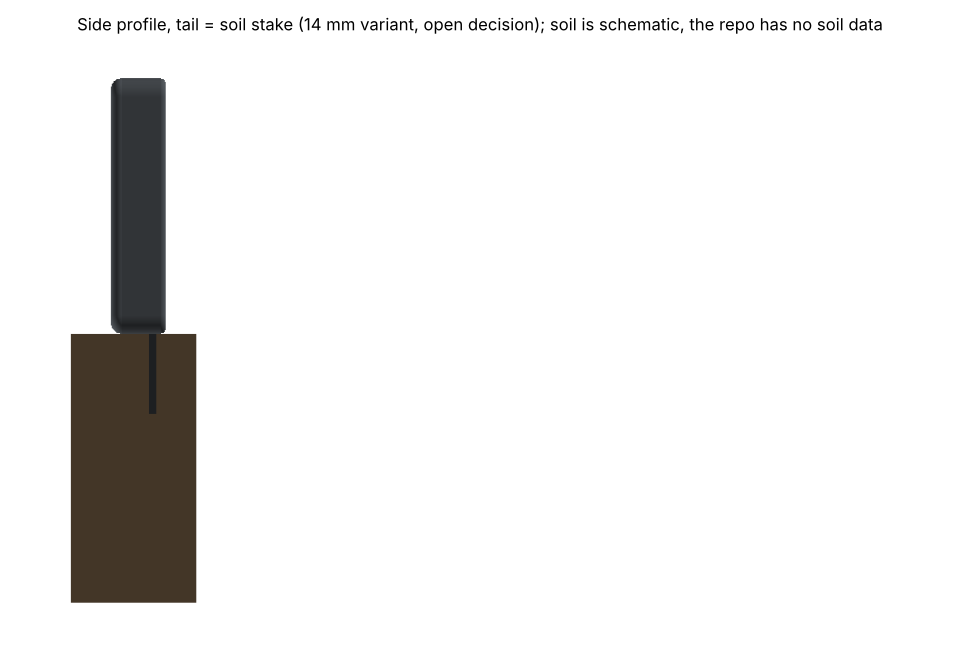
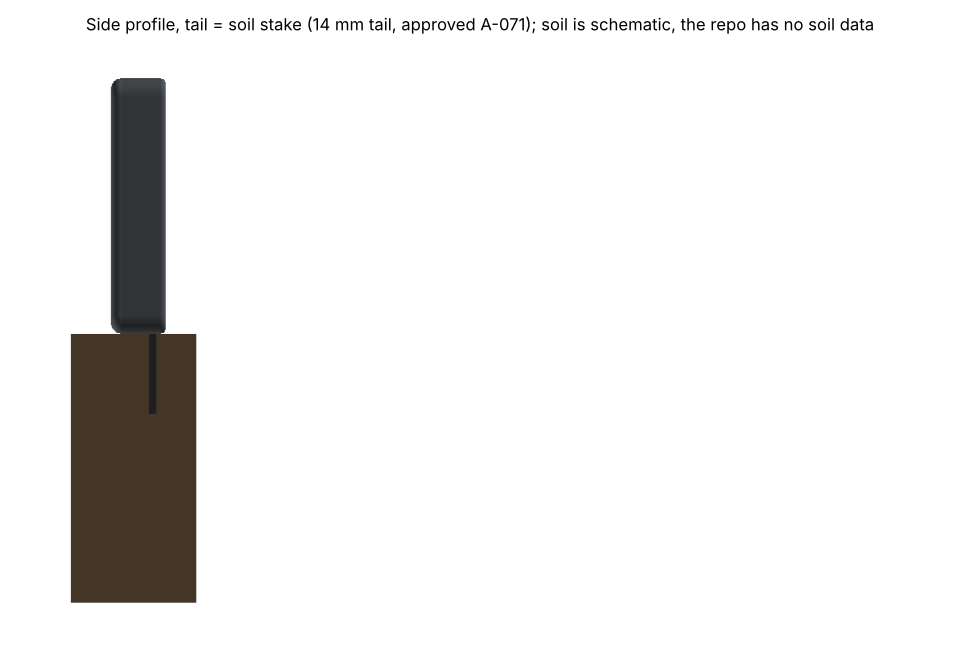
[4.E3] Slice 5: J1 flat per A-087 (height ASSUMED, never PASS), sync A-071 / A-076 / A-084 status text
- params_v3: J1 height is one value (3.3, ASSUMED) and drives J1_Z; upright 11.94 marked REJECTED (record only); cavity basis comment: J2 sets 8.6, J1 flat is not limiting.
- fit_check_v3: J1 row now flat / edge-mount, OPEN until a datasheet height of the picked part exists; upright no longer tested; A-071 (14 mm approved) and A-084 (RF risk accepted, 1.6 mm shell) wording.
- locked_interface / LOCKED_INTERFACE.md regenerated; enclosure/v3 README, compact fit-check reports and the stake render caption synced.
- Geometry unchanged (same STL). CI not run (waived, A-090); local pytest 56 passed, fit check 40 PASS / 0 FAIL / 19 OPEN.

Claude-Session: https://claude.ai/code/session_01W3bSq9UETfWrgGMgbmcMNG

Changed region(s): [[0.0625, 0.0306, 0.9375, 0.0613]]

diff --git a/projects/plant-monitor/mechanical/enclosure_v3/params_v3.py b/projects/plant-monitor/mechanical/enclosure_v3/params_v3.py
@@ -41,7 +41,8 @@ LID_CLEAR = 0.5                    # [ASSUMED] min air gap tallest part to lid u
 H_BY_REF = {"U1": 2.4, "J1": 3.3, "J2": 5.5, "SW1": 1.5, "SW2": 1.5, "SW3": 1.5, "U3": 1.75, "U5": 1.0, "U6": 0.75,
             "D1": 1.1, "U2": 1.1, "U4": 1.1, "Q1": 1.1, "U7": 1.1, "D2": 0.8, "D3": 0.8, "E1": 0.04}
 H_DEFAULT = 0.55                   # [ASSUMED] 0603 R/C
-# J1_UPRIGHT is not a model height (the model uses the flat 3.3 for J1); it is recorded so the upright value is not lost (see fit row 55).
+# J1 (USB-C) is FLAT / edge-mount (A-087, Arsany 2026-11-13). Its model height 3.3 is ASSUMED until the datasheet height of the part Emil picks is read.
+# J1_UPRIGHT (11.94) is the rejected upright version: kept as a record only, not used by the model or any check.
 # Where each height comes from (slice 3). DATASHEET = read from the manufacturer PDF (page given). SECONDARY = distributor listing
 # values only (manufacturer PDF not readable in this session), used as a cross-check, never as the model value unless it equals it.
 # ASSUMED = no source read; kept as an assumption and listed in the PR.
@@ -53,21 +54,22 @@ H_SRC = {
     "SW2": ("SECONDARY", "same part as SW1 (LCSC C318884)"),
     "SW3": ("SECONDARY", "same part as SW1 (LCSC C318884)"),
     "J2":  ("SECONDARY", "sourced: LCSC C295747 Z-height listing 5.5 mm (A-076 budget); IBS Electronics lists 5.5 mm; element14 lists 8.0 mm for a likely B2B variant (not confirmed as this part); JST drawing to confirm"),
-    "J1":  ("ASSUMED", "TYPE-C-31-M-12 (LCSC C165948) flat part, model value 3.30: no datasheet height for the flat part read (LCSC link returns a wrapper page); kept ASSUMED. A-087 approved flat / edge-mount (Arsany 2026-11-13); the part is still to be picked by Emil"),
-    # The upright male version of the same connector is a different height. Brief value from the TYPE-C-31-M-12 datasheet (upright male): 11.94 +-0.25 mm.
-    # Recorded as OPEN, not used in the model: the orientation is decision A-087 (Arsany). No value is chosen. The datasheet PDF was not read in this session.
-    "J1_UPRIGHT": ("OPEN", "TYPE-C-31-M-12 (LCSC C165948) datasheet, upright male version: H 11.94 +-0.25 mm (value from the review brief; PDF not read here). Orientation A-087 (Arsany)"),
+    "J1":  ("ASSUMED", "USB-C, FLAT / edge-mount (A-087, Arsany 2026-11-13). Model value 3.30 is ASSUMED: no datasheet height for a flat part has been read. Emil picks the actual flat part (PR #95 does not contain it yet); until its datasheet height exists this stays ASSUMED, never PASS. Footprint in the repo is still TYPE-C-31-M-12 (LCSC C165948)"),
+    # The upright male version of TYPE-C-31-M-12 is a different height: 11.94 +-0.25 mm (value from the review brief, PDF not read here). Rejected by A-087; record only.
+    "J1_UPRIGHT": ("REJECTED", "TYPE-C-31-M-12 upright male version H 11.94 +-0.25 mm (review brief value, PDF not read). Not used: A-087 approved flat / edge-mount (Arsany 2026-11-13)"),
     "U3":  ("ASSUMED", "TP4056-42-ESOP8 (LCSC C16581): datasheet link returns a wrapper page; height not read"),
 }
 for _r in ("D1", "U2", "U4", "U7", "Q1", "D2", "D3", "E1"):
     H_SRC.setdefault(_r, ("ASSUMED", "not read in this session (package class value kept)"))
-J1_UPRIGHT_H, J1_UPRIGHT_TOL = 11.94, 0.25   # TYPE-C-31-M-12 upright male, datasheet brief value (OPEN, A-087); not used by the model
+J1_UPRIGHT_H, J1_UPRIGHT_TOL = 11.94, 0.25   # TYPE-C-31-M-12 upright male, brief value; REJECTED by A-087 (flat approved), record only, not used by the model
 # The number each cited source states, for every part whose height cites a source (DATASHEET or SECONDARY). The fit check (row 54)
 # fails if H_BY_REF differs from it, so a changed sourced height cannot slip through without a new citation.
 H_CITED = {"U1": 2.4, "U5": 1.0, "U6": 0.75, "SW1": 1.5, "SW2": 1.5, "SW3": 1.5, "J2": 5.5}
 # Inner height is a FIXED design value, not derived from H_BY_REF. The fit check row "Tallest part to lid underside" tests the
 # assumed heights against it, so changing an assumed height (e.g. J2) fails the check instead of silently moving the box.
-# Budget at 7.6: standoff 1.0 + board 1.6 + J2 4.5 + air 0.5 = 7.6.
+# Cavity basis (A-087 + A-076): the tallest part sets INNER_H, and it is J2, not J1. J1 is flat (3.3 ASSUMED) and leaves 2.7 mm of air at 8.6.
+# The rejected upright J1 (11.94) would need 1.0 + 1.6 + 11.94 + 0.5 = 15.04, which is why flat was chosen.
+# Budget at 7.6: standoff 1.0 + board 1.6 + J2 4.5 + air 0.5 = 7.6 (J2 4.5 was ASSUMED, superseded by the 5.5 listing value).
 INNER_H_OPT_A = round(STANDOFF + BOARD_T + 4.5 + LID_CLEAR, 1)      # 7.6: option A, J2 4.5 (ASSUMED, not sourced)
 INNER_H_IF_J2_5_5 = round(STANDOFF + BOARD_T + 5.5 + LID_CLEAR, 1)   # 8.6: option B, J2 5.5 (distributor value)
 # A-076 (answered 2026-11-13 from the J2 listing 5.5 mm): the model uses option B, inner 8.6. Option A (7.6) stays in INNER_H_OPT_A for reference only.
@@ -96,7 +98,7 @@ BOSS_XY += [(-55.0, -45.4), (-27.0, -45.4), (-3.5, -45.4)]   # absolute: boss to
 BOSS_BOARD_GAP_MIN = 1.0           # [ASSUMED] min plan gap boss edge to board outline (insertion slop + FDM spread); not a sourced limit
 INSERT_DEPTH = 4.0
 # ---- USB-C [ASSUMED plug 8.94 x 3.26 (USB-C spec) + 0.3 per side FDM] ----
-J1_Y, J1_Z = _F["at"]["J1"][1], BOARD_Z1 + 3.3 / 2
+J1_Y, J1_Z = _F["at"]["J1"][1], BOARD_Z1 + H_BY_REF["J1"] / 2   # J1 flat, centre at half the (ASSUMED) height
 USB_W, USB_H = 9.6, 3.9
 USB_POCKET = (14.0, 8.0, 1.2)      # overmold pocket w x h x depth from outside; wall left 1.2
 # ---- light window over U6 BH1750 at KiCad (11.5, 4.5) ----
@@ -123,7 +125,7 @@ PETG_BOSS_WALL = 1.6               # wall around a heat-set insert hole in PETG 
 PETG_SCREW_TORQUE_NM = 0.25        # [ASSUMED] max M2 tightening torque into a PETG insert; the insert datasheet governs
 PETG_SHRINK = 0.004                # [ASSUMED] 0.4 % PETG shrink; set by the test print (standards s.3 says calibrate)
 SEAL_TYPE = "silicone sheet gasket 1.0 mm (bought part, not PETG; ASSUMED)"
-# ---- tail length variants (A-071, Arsany's call, NOT decided here) ----
+# ---- tail length variants (A-071: Arsany approved 14 mm on 2026-11-12 (sheet: Done); the 20 mm variant stays as reference) ----
 # "Tail length" = length of the soil electrode copper beyond the OUTER bottom face of the enclosure (mm). Read from the board:
 # the electrode copper runs from BODY_L+1 to BODY_L+21 (pad at y 11 of the E1 footprint, size 20), the board tail ends 4.0 mm
 # further (board_facts.electrode_span). The enclosure does not move; only the board tail length changes with the variant.

diff --git a/projects/plant-monitor/mechanical/enclosure_v3/fit_check_v3.py b/projects/plant-monitor/mechanical/enclosure_v3/fit_check_v3.py
@@ -65,7 +65,7 @@ def main(tail=None):
     tail_l = P.TAIL_L_VARIANT[tail]                       # board tail length for this variant (params_v3)
     tray, lid, plug = E.tray(), E.lid(), E.plug()
     board, cell = E.board_ghost(tail_l), E.cell_ghost()
-    # 0 tail variant (A-071 open): the electrode length beyond the outer bottom face, derived from the variant board tail
+    # 0 tail variant (A-071: 14 mm approved 2026-11-12, board change pending in input/): the electrode length beyond the outer bottom face, derived from the variant board tail
     tail_end = -(P.BODY_L + tail_l)
     cu_end = tail_end + P.TIP_MARGIN
     exposed = -cu_end - (-P.OUT_Y0)
@@ -74,7 +74,7 @@ def main(tail=None):
     dxf_tail = P.TAIL_L
     row("Board tail in DXF (input/) matches the variant", f"DXF {dxf_tail:.2f} mm vs variant {tail_l:.2f} mm (+{tail_l - dxf_tail:.2f})", "= variant tail",
         abs(tail_l - dxf_tail) < 1e-6, "board DXF = #73; a longer tail for the 20 mm variant is a board outline change for Emil (not in repo)",
-        "OPEN: board outline change needed for this variant, Arsany A-071 decides", open_=abs(tail_l - dxf_tail) >= 1e-6)
+        "OPEN: A-071 approved 14 mm (Arsany 2026-11-12) = board tail 25.8; the board copy in input/ is still the 25.0 mm DXF of #73 (pcb/gen_pcb.py on main already has 25.8). 20 mm is reference only", open_=abs(tail_l - dxf_tail) >= 1e-6)
     # tail solid vs housing: the tail runs through the tunnel in the plug; must not hit tray or plug
     tail_solid = E._box(P.TAIL_X0, tail_end, P.BOARD_Z0, P.TAIL_X0 + P.TAIL_W, -P.BODY_L, P.BOARD_Z1)
     row(f"Interference tail ({tail} variant) vs tray and seal plug", f"{max(vol_overlap(tail_solid, tray), vol_overlap(tail_solid, plug)):.3f} mm3", "0 (contact allowed)",
@@ -129,10 +129,10 @@ def main(tail=None):
     row("Antenna corner (33.5, 4.5) air to the rounded cavity corner", f"{air_c:.2f} mm", ">= 1.0 (same air as the top wall)", air_c >= 1.0 - 1e-9, "params_v3 rr_dist, FILLET_INNER 1.5 (slice 4)")
     dm = min(B.gap(ant, (x - P.INSERT_HOLE / 2, y - P.INSERT_HOLE / 2, x + P.INSERT_HOLE / 2, y + P.INSERT_HOLE / 2)) for x, y in P.BOSS_XY)
     row("Nearest brass insert to antenna (Q9)", f"{dm:.1f} mm", ">= 15", dm >= 15, "BOSS_XY, insert hole 3.2")
-    # standards s.7: no thick walls over the antenna. The 2.4 mm PETG top wall sits over the module; no RF measurement exists, so this is OPEN, not PASS.
+    # standards s.7: no thick walls over the antenna. The compact shell has a 1.6 mm PETG top wall (WALL_LOW) over the module; A-084: RF risk accepted for the demo. No RF measurement exists, so this stays OPEN, not PASS.
     row("PETG top wall over the antenna", f"{P.WALL_LOW:.2f} mm wall, {P.INNER_Y1 - P.OVERHANG:.1f} mm air to antenna tip (ASSUMED)", "no thick wall over the antenna (standards s.7): RF effect checked",
         False, "params_v3 WALL, INNER_Y1; standards s.7; P1S/PETG review (Arsany answer 2026-11-10)",
-        "OPEN: effect on the antenna not measured. Options: RF check on a Prototype 1 print, or a thinner wall over the antenna. Decide before the lid is locked", open_=True)
+        "OPEN: RF effect not measured. A-084: risk accepted for the demo with the 1.6 mm compact shell; RF check on a Prototype 1 print before any pilot batch", open_=True)
     # 6 walls
     cw = P.min_wall_corners()
     for n, v in [("Rim land left/top/bottom", P.WALL_LOW), ("Rim land right (USB side)", P.WALL), ("Tray floor", P.FLOOR), ("Corner wall, min (cavity to skin)", cw), ("Lid under counterbore", P.LID_T - P.WIN_CB_DEPTH), ("USB pocket remaining wall", P.WALL - P.USB_POCKET[2]),
@@ -190,14 +190,13 @@ def main(tail=None):
     row(f"Model heights equal their cited source ({len(P.H_CITED)} parts)", f"{len(P.H_CITED) - len(mism)} of {len(P.H_CITED)} equal" + (f"; MISMATCH {mism}" if mism else ""),
         "model value = cited value for every part", not mism, "params_v3 H_CITED vs H_BY_REF; standards s.7 (never invent a component dimension)",
         "OPEN: U5, U6, SW1-3 cite distributor listings (SECONDARY), the PDFs were not read", unsure=any(P.H_SRC[k][0] != "DATASHEET" for k in P.H_CITED))
-    # 10 J1 USB-C height: the model uses the flat 3.3 (ASSUMED); the upright male version is 11.94 +-0.25 (datasheet brief value, OPEN, A-087).
-    # The upright value is tested against the same inner box; it does not fit, so the row stays OPEN until the orientation is decided. No value is chosen here.
+    # 10 J1 USB-C height: FLAT / edge-mount (A-087, Arsany 2026-11-13). Model value 3.3 is ASSUMED (no datasheet height of the picked flat part yet),
+    # so the row is OPEN even though the gap passes. The rejected upright 11.94 is not tested any more (record only in params_v3).
     gap_flat = P.INNER_H - (P.BOARD_Z1 + P.H_BY_REF["J1"])
-    gap_up = P.INNER_H - (P.BOARD_Z1 + P.J1_UPRIGHT_H)
-    row("J1 USB-C height, flat vs upright", f"flat {P.H_BY_REF['J1']:.2f} (ASSUMED): {gap_flat:.2f} mm to lid; upright {P.J1_UPRIGHT_H:.2f} +-{P.J1_UPRIGHT_TOL} (OPEN): {gap_up:.2f} mm",
-        f">= {P.LID_CLEAR} (orientation not decided)", gap_up >= P.LID_CLEAR - 1e-9,
-        "TYPE-C-31-M-12 datasheet, upright male (brief value, PDF not read here); params_v3 H_SRC J1_UPRIGHT",
-        "OPEN: A-087 approved flat (2026-11-13); the upright value is kept only as a record and does not fit the 8.6 mm or 7.6 mm inner box", open_=True)
+    row("J1 USB-C height (flat / edge-mount, A-087)", f"flat {P.H_BY_REF['J1']:.2f} (ASSUMED): {gap_flat:.2f} mm to lid underside (inner {P.INNER_H:.1f})",
+        f">= {P.LID_CLEAR} mm to lid; height from the datasheet of the picked part", gap_flat >= P.LID_CLEAR - 1e-9,
+        "params_v3 H_BY_REF['J1'], H_SRC J1; A-087 (flat approved 2026-11-13)",
+        "OPEN: height ASSUMED until Emil's flat part has a datasheet height (PR #95 does not pick it yet); never PASS before that", unsure=P.H_SRC["J1"][0] != "DATASHEET")
     return list(ROWS)
 
 
@@ -219,5 +218,5 @@ if __name__ == "__main__":
     summary = f"{npass} PASS, {nfail} FAIL, {nopen} OPEN (tail {tail} mm variant)"
     print(summary)
     if "--md" in sys.argv:
-        open(sys.argv[sys.argv.index("--md") + 1], "w").write(f"Tail variant: {tail} mm (A-071 open)\n\n" + md + f"\n{summary}\n")
+        open(sys.argv[sys.argv.index("--md") + 1], "w").write(f"Tail variant: {tail} mm (A-071: 14 mm approved by Arsany 2026-11-12)\n\n" + md + f"\n{summary}\n")
     sys.exit(1 if nfail else 0)

diff --git a/projects/plant-monitor/mechanical/enclosure_v3/locked_interface.py b/projects/plant-monitor/mechanical/enclosure_v3/locked_interface.py
@@ -27,7 +27,7 @@ def text():
     a(f"| Body | {f['board_w']:.1f} x {f['body_l']:.1f} | READ | DXF OUTLINE |")
     a(f"| Tail (25 mm DXF) | {f['tail_w']:.1f} x {f['tail_l']:.1f} | READ | DXF OUTLINE; tip at y {f['tail_end']:.1f} |")
     a(f"| Thickness | {P.BOARD_T:.1f} | READ | KiCad general thickness (tolerance +-10 % per layout-brief) |")
-    a(f"| Tail length variants | 14 mm: board tail {P.TAIL_L_VARIANT['14']:.1f}; 20 mm: board tail {P.TAIL_L_VARIANT['20']:.1f} | OPEN | electrode copper beyond the outer bottom face, A-071 (Arsany). Board change needed for both (DXF tail 25.0) |")
+    a(f"| Tail length variants | 14 mm: board tail {P.TAIL_L_VARIANT['14']:.1f}; 20 mm: board tail {P.TAIL_L_VARIANT['20']:.1f} | 14 mm APPROVED (A-071, Arsany 2026-11-12); 20 mm reference only | electrode copper beyond the outer bottom face. Board change to 25.8 is in `pcb/gen_pcb.py` on main; the DXF copy in `input/` is still 25.0 |")
     a(f"| Electrode copper | 20 mm, y {-f['body_l'] - 1:.0f} to {f['copper_end']:.0f} | READ | E1 pad 1 (SOIL_PROBE), tip margin {P.TIP_MARGIN:.1f} to the tail end |")
     a(f"| Antenna module overhang | {f['overhang']:.1f} above the top edge, x {f['module_x0']:.1f}..{f['module_x1']:.1f} | READ | DXF MODULE_U1; enclosure keeps 1.0 air (ASSUMED) |")
     a("")
@@ -43,8 +43,8 @@ def text():
     a("| Item | Value | Status | Note |")
     a("|---|---|---|---|")
     a(f"| J1 centre (x = right edge, y) | x {P.BOARD_W:.2f}, y {P.J1_Y:.1f}, rotated 90 deg | READ | J1 footprint position |")
-    a(f"| J1 height, flat (model value, board top to centre) | {P.H_BY_REF['J1']:.2f} (centre at z {P.J1_Z:.2f}) | {sec('J1')} | no datasheet height read for the flat part; see fit check |")
-    a(f"| **J1 height, upright male (TYPE-C-31-M-12 datasheet)** | **{P.J1_UPRIGHT_H:.2f} +-{P.J1_UPRIGHT_TOL:.2f}** | **{sec('J1_UPRIGHT')}** | orientation is decision **A-087** (Arsany); no value chosen. Upright does not fit the 7.6 mm inner box (fit row 55) |")
+    a(f"| J1 height, flat (model value, board top to centre) | {P.H_BY_REF['J1']:.2f} (centre at z {P.J1_Z:.2f}) | {sec('J1')} | flat / edge-mount approved (A-087, Arsany 2026-11-13); no datasheet height of the picked flat part yet, never PASS until then; fit check row 'J1 USB-C height' |")
+    a(f"| J1 height, upright male (TYPE-C-31-M-12, brief value) | {P.J1_UPRIGHT_H:.2f} +-{P.J1_UPRIGHT_TOL:.2f} | {sec('J1_UPRIGHT')} | not used: A-087 chose flat / edge-mount; upright would need an inner height of about 15.0 |")
     a(f"| Window in right wall | {P.USB_W} x {P.USB_H} | ASSUMED | plug 8.94 x 3.26 + 0.3 per side |")
     a(f"| Overmold pocket (from outside) | {P.USB_POCKET[0]} x {P.USB_POCKET[1]} x {P.USB_POCKET[2]} deep | ASSUMED | wall left {P.WALL - P.USB_POCKET[2]:.1f} |")
     a("")
@@ -80,16 +80,16 @@ def text():
     a("|---|---|---|---|")
     XY = f"{P.INNER_X1 - P.INNER_X0:.1f} x {P.INNER_Y1 - P.INNER_Y0:.1f}"
     OXY = f"{P.OUT_X1 - P.OUT_X0:.1f} x {P.OUT_Y1 - P.OUT_Y0:.1f}"
-    a(f"| Inner cavity, **option A: J2 4.5 ASSUMED (not the model since slice 4)** | {XY} x {P.INNER_H_OPT_A:.1f} | **OPEN, not locked** | holds only if the J2 datasheet is <= 4.5 (budget 1.0 + 1.6 + J2 + 0.5) |")
+    a(f"| Inner cavity, option A: J2 4.5 ASSUMED (reference only, not the model since slice 4) | {XY} x {P.INNER_H_OPT_A:.1f} | OPEN, not locked | basis is J2 (not J1); holds only if the J2 datasheet is <= 4.5 (budget 1.0 + 1.6 + J2 + 0.5) |")
     a(f"| Outer, lid on, option A | {OXY} x {P.FLOOR + P.INNER_H_OPT_A + P.LID_T:.1f} | OPEN | floor {P.FLOOR} + inner + lid {P.LID_T}; +1.0 gasket (not modelled) |")
-    a(f"| Inner cavity, **option B (model): J2 5.5** | {XY} x {P.INNER_H_IF_J2_5_5:.1f} | OPEN (not a datasheet value) | J2 5.5 from the LCSC C295747 listing (A-076); 0.5 mm air to the lid |")
+    a(f"| Inner cavity, **option B (model): J2 5.5, J1 flat 3.3 not limiting** | {XY} x {P.INNER_H_IF_J2_5_5:.1f} | OPEN (not a datasheet value) | J2 5.5 from the LCSC C295747 listing (A-076); 0.5 mm air to the lid |")
     a(f"| Outer, lid on, option B | {OXY} x {P.FLOOR + P.INNER_H_IF_J2_5_5 + P.LID_T:.1f} | OPEN | +1.0 gasket (not modelled) |")
     a("")
     a("## 9. Open points (NEEDS ARSANY / Emil)")
-    a(f"1. **Tail length (A-071)**: choose 14 or 20 mm. Board tail becomes {P.TAIL_L_VARIANT['14']:.1f} or {P.TAIL_L_VARIANT['20']:.1f} mm; the DXF is 25.0 today.")
+    a(f"1. **Tail length (A-071)**: DECIDED 14 mm (Arsany 2026-11-12), board tail {P.TAIL_L_VARIANT['14']:.1f} mm. Open only: refresh `input/` from the board on main (the copy still has the 25.0 mm DXF tail). 20 mm ({P.TAIL_L_VARIANT['20']:.1f}) is reference only.")
     a(f"2. **J2 height (A-076)**: model 5.5 from the LCSC C295747 Z-height listing (SECONDARY). The JST drawing is still to confirm, and element14 lists 8.0 mm for a likely B2B variant, so the exact part must be confirmed before the inner height is locked. Inner {P.INNER_H_IF_J2_5_5:.1f} (option B) is the model; option A {P.INNER_H_OPT_A:.1f} is for reference only.")
     a("3. **Board retention**: two more keep-clear pads or two M2 holes (no metal within 15 mm of the antenna).")
-    a("4. **J1 orientation (A-087)**: approved flat / edge-mount by Arsany 2026-11-13. Model: flat 3.30, ASSUMED (no datasheet height for the flat part read); the part is still to be picked by Emil. The upright male version (11.94 +-0.25, datasheet) does not fit this box and is not used.")
+    a("4. **J1 (A-087)**: flat / edge-mount approved by Arsany 2026-11-13. Model: flat 3.30, ASSUMED. Open: Emil picks the actual flat part (PR #95 does not contain it yet); the height stays ASSUMED, never PASS, until its datasheet height is read. The upright version (11.94 +-0.25) is rejected and not used.")
     a("5. **Device heights** still ASSUMED (see `params_v3.H_SRC`): U3 and the 0603/SOT parts.")
     return "\n".join(L) + "\n"
 

diff --git a/projects/plant-monitor/mechanical/enclosure_v3/test_v3.py b/projects/plant-monitor/mechanical/enclosure_v3/test_v3.py
@@ -19,8 +19,8 @@ EXPECTED_OPEN = ("Board tail in DXF", "Tallest part to lid underside", "J2 at 5.
                  "Antenna tip to top wall", "Interference lid vs board+parts", "PETG min feature: vent slot width", "PETG min feature: pinhole d",
                  "PETG min feature: light window d", "PETG min feature: lid screw clearance hole", "PETG min feature: plug wall",
                  "Seal tunnel clearance per side", "Model heights equal their cited source",
-                 # fix round 3 (Theo verdict on 689c161): seal width and PETG boss wall are passes against ASSUMED / own-target values; J1 upright is A-087 (OPEN)
-                 "Seal tunnel clearance per side", "PETG insert boss wall", "J1 USB-C height, flat vs upright",
+                 # fix round 3 (Theo verdict on 689c161): seal width and PETG boss wall are passes against ASSUMED / own-target values; J1 is flat per A-087, height ASSUMED (OPEN)
+                 "Seal tunnel clearance per side", "PETG insert boss wall", "J1 USB-C height",
                  # slice 4 (Yara, 2026-11-13): boss to board outline plan gap, threshold ASSUMED 1.0 mm
                  "Boss to board outline")
 
@@ -28,7 +28,7 @@ EXPECTED_OPEN = ("Board tail in DXF", "Tallest part to lid underside", "J2 at 5.
 @pytest.mark.parametrize("tail", ["14", "20"])
 def test_all_fit_checks_pass_for_both_tail_variants(tail):
     """No FAIL for either variant. The OPEN rows are exactly EXPECTED_OPEN (19): the board DXF tail (A-071), the J2 height (A-076, rows 'Tallest part',
-    'J2 5.5', 'Interference lid'), heights not datasheet-sourced, the PETG wall over the antenna, the unchecked torque, the J1 upright height (A-087), and every
+    'J2 5.5', 'Interference lid'), heights not datasheet-sourced, the PETG wall over the antenna, the unchecked torque, the J1 flat height (A-087, ASSUMED), and every
     pass that rests on an ASSUMED threshold or our own target (antenna air, PETG feature floor, seal clearance, PETG boss wall). Nothing OPEN is counted as PASS."""
     rows = F.main(tail)
     bad = [r for r in rows if r[3] == "FAIL"]
@@ -150,7 +150,8 @@ def test_height_sources_cover_the_model():
     assert set(P.H_BY_REF) <= set(P.H_SRC), set(P.H_BY_REF) - set(P.H_SRC)
     assert {k for k, v in P.H_SRC.items() if v[0] == "DATASHEET"} == {"U1"}
     assert "5.5" in P.H_SRC["J2"][1] and P.H_BY_REF["J2"] == 5.5 and P.H_SRC["J2"][0] == "SECONDARY"   # A-076: model value = listing value, not a datasheet
-    assert P.H_SRC["J1_UPRIGHT"][0] == "OPEN" and (P.J1_UPRIGHT_H, P.J1_UPRIGHT_TOL) == (11.94, 0.25)   # upright J1 recorded as OPEN (A-087), model keeps flat 3.3
+    assert P.H_SRC["J1_UPRIGHT"][0] == "REJECTED" and (P.J1_UPRIGHT_H, P.J1_UPRIGHT_TOL) == (11.94, 0.25)   # upright J1 rejected by A-087, record only
+    assert P.H_SRC["J1"][0] == "ASSUMED" and P.H_BY_REF["J1"] == 3.3 and P.J1_Z == pytest.approx(P.BOARD_Z1 + 3.3 / 2)   # flat J1: ASSUMED until a datasheet height exists, never DATASHEET/PASS
 
 
 def test_locked_interface_file_is_current():

diff --git a/projects/plant-monitor/mechanical/enclosure_v3/render_compact.py b/projects/plant-monitor/mechanical/enclosure_v3/render_compact.py
@@ -119,7 +119,7 @@ def main(tail="14"):
     # 3 side profile against the soil stake: camera on the USB side, the tail points down into the schematic soil
     soil = box(-70.0, P.OUT_Y0 - 60, -8, P.TAIL_X0 - 10, P.OUT_Y0, 20)   # behind the stake from this camera
     save(shell + stake + [(mesh_of(soil, "soil"), SOIL, 1)], "compact_side_stake.png", (1.0, 0.0, 0.0), (0, 1, 0),
-         "Side profile, tail = soil stake (14 mm variant, open decision); soil is schematic, the repo has no soil data")
+         "Side profile, tail = soil stake (14 mm tail, approved A-071); soil is schematic, the repo has no soil data")
     print("renders in", REN)
 
 

diff --git a/projects/plant-monitor/mechanical/enclosure_v3/LOCKED_INTERFACE.md b/projects/plant-monitor/mechanical/enclosure_v3/LOCKED_INTERFACE.md
@@ -10,7 +10,7 @@ Status: **READ** = from the board file; **ASSUMED** = enclosure assumption (not 
 | Body | 34.5 x 42.0 | READ | DXF OUTLINE |
 | Tail (25 mm DXF) | 12.0 x 25.0 | READ | DXF OUTLINE; tip at y -67.0 |
 | Thickness | 1.6 | READ | KiCad general thickness (tolerance +-10 % per layout-brief) |
-| Tail length variants | 14 mm: board tail 25.8; 20 mm: board tail 31.8 | OPEN | electrode copper beyond the outer bottom face, A-071 (Arsany). Board change needed for both (DXF tail 25.0) |
+| Tail length variants | 14 mm: board tail 25.8; 20 mm: board tail 31.8 | 14 mm APPROVED (A-071, Arsany 2026-11-12); 20 mm reference only | electrode copper beyond the outer bottom face. Board change to 25.8 is in `pcb/gen_pcb.py` on main; the DXF copy in `input/` is still 25.0 |
 | Electrode copper | 20 mm, y -43 to -63 | READ | E1 pad 1 (SOIL_PROBE), tip margin 4.0 to the tail end |
 | Antenna module overhang | 4.5 above the top edge, x 20.3..33.5 | READ | DXF MODULE_U1; enclosure keeps 1.0 air (ASSUMED) |
 
@@ -26,8 +26,8 @@ Status: **READ** = from the board file; **ASSUMED** = enclosure assumption (not 
 | Item | Value | Status | Note |
 |---|---|---|---|
 | J1 centre (x = right edge, y) | x 34.50, y -33.0, rotated 90 deg | READ | J1 footprint position |
-| J1 height, flat (model value, board top to centre) | 3.30 (centre at z 4.25) | ASSUMED | no datasheet height read for the flat part; see fit check |
-| **J1 height, upright male (TYPE-C-31-M-12 datasheet)** | **11.94 +-0.25** | **OPEN** | orientation is decision **A-087** (Arsany); no value chosen. Upright does not fit the 7.6 mm inner box (fit row 55) |
+| J1 height, flat (model value, board top to centre) | 3.30 (centre at z 4.25) | ASSUMED | flat / edge-mount approved (A-087, Arsany 2026-11-13); no datasheet height of the picked flat part yet, never PASS until then; fit check row 'J1 USB-C height' |
+| J1 height, upright male (TYPE-C-31-M-12, brief value) | 11.94 +-0.25 | REJECTED | not used: A-087 chose flat / edge-mount; upright would need an inner height of about 15.0 |
 | Window in right wall | 9.6 x 3.9 | ASSUMED | plug 8.94 x 3.26 + 0.3 per side |
 | Overmold pocket (from outside) | 14.0 x 8.0 x 1.2 deep | ASSUMED | wall left 1.2 |
 
@@ -60,14 +60,14 @@ Status: **READ** = from the board file; **ASSUMED** = enclosure assumption (not 
 ## 8. Housing envelope (for Emil's keep-out)
 | Item | Value | Status | Note |
 |---|---|---|---|
-| Inner cavity, **option A: J2 4.5 ASSUMED (not the model since slice 4)** | 93.3 x 53.7 x 7.6 | **OPEN, not locked** | holds only if the J2 datasheet is <= 4.5 (budget 1.0 + 1.6 + J2 + 0.5) |
+| Inner cavity, option A: J2 4.5 ASSUMED (reference only, not the model since slice 4) | 93.3 x 53.7 x 7.6 | OPEN, not locked | basis is J2 (not J1); holds only if the J2 datasheet is <= 4.5 (budget 1.0 + 1.6 + J2 + 0.5) |
 | Outer, lid on, option A | 97.3 x 56.9 x 11.2 | OPEN | floor 1.2 + inner + lid 2.4; +1.0 gasket (not modelled) |
-| Inner cavity, **option B (model): J2 5.5** | 93.3 x 53.7 x 8.6 | OPEN (not a datasheet value) | J2 5.5 from the LCSC C295747 listing (A-076); 0.5 mm air to the lid |
+| Inner cavity, **option B (model): J2 5.5, J1 flat 3.3 not limiting** | 93.3 x 53.7 x 8.6 | OPEN (not a datasheet value) | J2 5.5 from the LCSC C295747 listing (A-076); 0.5 mm air to the lid |
 | Outer, lid on, option B | 97.3 x 56.9 x 12.2 | OPEN | +1.0 gasket (not modelled) |
 
 ## 9. Open points (NEEDS ARSANY / Emil)
-1. **Tail length (A-071)**: choose 14 or 20 mm. Board tail becomes 25.8 or 31.8 mm; the DXF is 25.0 today.
+1. **Tail length (A-071)**: DECIDED 14 mm (Arsany 2026-11-12), board tail 25.8 mm. Open only: refresh `input/` from the board on main (the copy still has the 25.0 mm DXF tail). 20 mm (31.8) is reference only.
 2. **J2 height (A-076)**: model 5.5 from the LCSC C295747 Z-height listing (SECONDARY). The JST drawing is still to confirm, and element14 lists 8.0 mm for a likely B2B variant, so the exact part must be confirmed before the inner height is locked. Inner 8.6 (option B) is the model; option A 7.6 is for reference only.
 3. **Board retention**: two more keep-clear pads or two M2 holes (no metal within 15 mm of the antenna).
-4. **J1 orientation (A-087)**: approved flat / edge-mount by Arsany 2026-11-13. Model: flat 3.30, ASSUMED (no datasheet height for the flat part read); the part is still to be picked by Emil. The upright male version (11.94 +-0.25, datasheet) does not fit this box and is not used.
+4. **J1 (A-087)**: flat / edge-mount approved by Arsany 2026-11-13. Model: flat 3.30, ASSUMED. Open: Emil picks the actual flat part (PR #95 does not contain it yet); the height stays ASSUMED, never PASS, until its datasheet height is read. The upright version (11.94 +-0.25) is rejected and not used.
 5. **Device heights** still ASSUMED (see `params_v3.H_SRC`): U3 and the 0603/SOT parts.

diff --git a/projects/plant-monitor/enclosure/v3/fit_check_v3_compact_tail14.md b/projects/plant-monitor/enclosure/v3/fit_check_v3_compact_tail14.md
@@ -1,9 +1,9 @@
-Tail variant: 14 mm (A-071 open)
+Tail variant: 14 mm (A-071: 14 mm approved by Arsany 2026-11-12)
 
 | # | Check | Value | Need | Result | Source |
 |---|---|---|---|---|---|
 | 1 | Tail variant 14 mm: electrode copper beyond outer bottom face | 14.00 mm (copper tip y -63.80) | = 14.0 mm (variant) | **PASS** | params_v3 TAIL_VARIANTS; copper from board E1 pad (board_facts.electrode_span), tip margin 4.0 from DXF |
-| 2 | Board tail in DXF (input/) matches the variant | DXF 25.00 mm vs variant 25.80 mm (+0.80) | = variant tail | **OPEN** | board DXF = #73; a longer tail for the 20 mm variant is a board outline change for Emil (not in repo) (OPEN: board outline change needed for this variant, Arsany A-071 decides) |
+| 2 | Board tail in DXF (input/) matches the variant | DXF 25.00 mm vs variant 25.80 mm (+0.80) | = variant tail | **OPEN** | board DXF = #73; a longer tail for the 20 mm variant is a board outline change for Emil (not in repo) (OPEN: A-071 approved 14 mm (Arsany 2026-11-12) = board tail 25.8; the board copy in input/ is still the 25.0 mm DXF of #73 (pcb/gen_pcb.py on main already has 25.8). 20 mm is reference only) |
 | 3 | Interference tail (14 variant) vs tray and seal plug | 0.000 mm3 | 0 (contact allowed) | **PASS** | boolean intersect: tail solid vs tray and tail_plug |
 | 4 | Right-most part (J1 shell) to right wall (X) | 0.30 mm (board edge 0.80) | >= 0.30 (FDM + PCB +-0.2) | **PASS** | params_v3 INNER_X1, DXF outline |
 | 5 | Antenna tip to top wall (Y) | 1.00 mm | >= 1.0 [ASSUMED] | **OPEN** | DXF MODULE_U1 (overhang derived by Emil); Q10 detuning open (OPEN: the 1.0 mm threshold is ASSUMED, so a pass against it is not a pass (Arsany rule)) |
@@ -26,7 +26,7 @@ Tail variant: 14 mm (A-071 open)
 | 22 | Antenna tip line to cell cavity (my 28.4 method) | 27.7 mm | >= 15 | **PASS** | jlc_prep/README s.1 item 2 |
 | 23 | Antenna corner (33.5, 4.5) air to the rounded cavity corner | 1.00 mm | >= 1.0 (same air as the top wall) | **PASS** | params_v3 rr_dist, FILLET_INNER 1.5 (slice 4) |
 | 24 | Nearest brass insert to antenna (Q9) | 22.2 mm | >= 15 | **PASS** | BOSS_XY, insert hole 3.2 |
-| 25 | PETG top wall over the antenna | 1.60 mm wall, 1.0 mm air to antenna tip (ASSUMED) | no thick wall over the antenna (standards s.7): RF effect checked | **OPEN** | params_v3 WALL, INNER_Y1; standards s.7; P1S/PETG review (Arsany answer 2026-11-10) (OPEN: effect on the antenna not measured. Options: RF check on a Prototype 1 print, or a thinner wall over the antenna. Decide before the lid is locked) |
+| 25 | PETG top wall over the antenna | 1.60 mm wall, 1.0 mm air to antenna tip (ASSUMED) | no thick wall over the antenna (standards s.7): RF effect checked | **OPEN** | params_v3 WALL, INNER_Y1; standards s.7; P1S/PETG review (Arsany answer 2026-11-10) (OPEN: RF effect not measured. A-084: risk accepted for the demo with the 1.6 mm compact shell; RF check on a Prototype 1 print before any pilot batch) |
 | 26 | Wall: Rim land left/top/bottom | 1.60 mm | >= 1.2 (role rule) | **PASS** | params_v3 |
 | 27 | Wall: Rim land right (USB side) | 2.40 mm | >= 1.2 (role rule) | **PASS** | params_v3 |
 | 28 | Wall: Tray floor | 1.20 mm | >= 1.2 (role rule) | **PASS** | params_v3 |
@@ -60,6 +60,6 @@ Tail variant: 14 mm (A-071 open)
 | 56 | STL watertight: plug | True | True | **PASS** | trimesh |
 | 57 | Max bridge/overhang span, print orientation: plug | 0.0 mm (0 faces) | <= 10 mm reach from bed contact (P1S bridges; no steep overhangs) | **PASS** | trimesh, faces with normal z < -0.7 above the bed, reach to bed-contact vertices |
 | 58 | Model heights equal their cited source (7 parts) | 7 of 7 equal | model value = cited value for every part | **OPEN** | params_v3 H_CITED vs H_BY_REF; standards s.7 (never invent a component dimension) (OPEN: U5, U6, SW1-3 cite distributor listings (SECONDARY), the PDFs were not read) |
-| 59 | J1 USB-C height, flat vs upright | flat 3.30 (ASSUMED): 2.70 mm to lid; upright 11.94 +-0.25 (OPEN): -5.94 mm | >= 0.5 (orientation not decided) | **OPEN** | TYPE-C-31-M-12 datasheet, upright male (brief value, PDF not read here); params_v3 H_SRC J1_UPRIGHT (OPEN: A-087 approved flat (2026-11-13); the upright value is kept only as a record and does not fit the 8.6 mm or 7.6 mm inner box) |
+| 59 | J1 USB-C height (flat / edge-mount, A-087) | flat 3.30 (ASSUMED): 2.70 mm to lid underside (inner 8.6) | >= 0.5 mm to lid; height from the datasheet of the picked part | **OPEN** | params_v3 H_BY_REF['J1'], H_SRC J1; A-087 (flat approved 2026-11-13) (OPEN: height ASSUMED until Emil's flat part has a datasheet height (PR #95 does not pick it yet); never PASS before that) |
 
 40 PASS, 0 FAIL, 19 OPEN (tail 14 mm variant)

diff --git a/projects/plant-monitor/enclosure/v3/fit_check_v3_compact_tail20.md b/projects/plant-monitor/enclosure/v3/fit_check_v3_compact_tail20.md
@@ -1,9 +1,9 @@
-Tail variant: 20 mm (A-071 open)
+Tail variant: 20 mm (A-071: 14 mm approved by Arsany 2026-11-12)
 
 | # | Check | Value | Need | Result | Source |
 |---|---|---|---|---|---|
 | 1 | Tail variant 20 mm: electrode copper beyond outer bottom face | 20.00 mm (copper tip y -69.80) | = 20.0 mm (variant) | **PASS** | params_v3 TAIL_VARIANTS; copper from board E1 pad (board_facts.electrode_span), tip margin 4.0 from DXF |
-| 2 | Board tail in DXF (input/) matches the variant | DXF 25.00 mm vs variant 31.80 mm (+6.80) | = variant tail | **OPEN** | board DXF = #73; a longer tail for the 20 mm variant is a board outline change for Emil (not in repo) (OPEN: board outline change needed for this variant, Arsany A-071 decides) |
+| 2 | Board tail in DXF (input/) matches the variant | DXF 25.00 mm vs variant 31.80 mm (+6.80) | = variant tail | **OPEN** | board DXF = #73; a longer tail for the 20 mm variant is a board outline change for Emil (not in repo) (OPEN: A-071 approved 14 mm (Arsany 2026-11-12) = board tail 25.8; the board copy in input/ is still the 25.0 mm DXF of #73 (pcb/gen_pcb.py on main already has 25.8). 20 mm is reference only) |
 | 3 | Interference tail (20 variant) vs tray and seal plug | 0.000 mm3 | 0 (contact allowed) | **PASS** | boolean intersect: tail solid vs tray and tail_plug |
 | 4 | Right-most part (J1 shell) to right wall (X) | 0.30 mm (board edge 0.80) | >= 0.30 (FDM + PCB +-0.2) | **PASS** | params_v3 INNER_X1, DXF outline |
 | 5 | Antenna tip to top wall (Y) | 1.00 mm | >= 1.0 [ASSUMED] | **OPEN** | DXF MODULE_U1 (overhang derived by Emil); Q10 detuning open (OPEN: the 1.0 mm threshold is ASSUMED, so a pass against it is not a pass (Arsany rule)) |
@@ -26,7 +26,7 @@ Tail variant: 20 mm (A-071 open)
 | 22 | Antenna tip line to cell cavity (my 28.4 method) | 27.7 mm | >= 15 | **PASS** | jlc_prep/README s.1 item 2 |
 | 23 | Antenna corner (33.5, 4.5) air to the rounded cavity corner | 1.00 mm | >= 1.0 (same air as the top wall) | **PASS** | params_v3 rr_dist, FILLET_INNER 1.5 (slice 4) |
 | 24 | Nearest brass insert to antenna (Q9) | 22.2 mm | >= 15 | **PASS** | BOSS_XY, insert hole 3.2 |
-| 25 | PETG top wall over the antenna | 1.60 mm wall, 1.0 mm air to antenna tip (ASSUMED) | no thick wall over the antenna (standards s.7): RF effect checked | **OPEN** | params_v3 WALL, INNER_Y1; standards s.7; P1S/PETG review (Arsany answer 2026-11-10) (OPEN: effect on the antenna not measured. Options: RF check on a Prototype 1 print, or a thinner wall over the antenna. Decide before the lid is locked) |
+| 25 | PETG top wall over the antenna | 1.60 mm wall, 1.0 mm air to antenna tip (ASSUMED) | no thick wall over the antenna (standards s.7): RF effect checked | **OPEN** | params_v3 WALL, INNER_Y1; standards s.7; P1S/PETG review (Arsany answer 2026-11-10) (OPEN: RF effect not measured. A-084: risk accepted for the demo with the 1.6 mm compact shell; RF check on a Prototype 1 print before any pilot batch) |
 | 26 | Wall: Rim land left/top/bottom | 1.60 mm | >= 1.2 (role rule) | **PASS** | params_v3 |
 | 27 | Wall: Rim land right (USB side) | 2.40 mm | >= 1.2 (role rule) | **PASS** | params_v3 |
 | 28 | Wall: Tray floor | 1.20 mm | >= 1.2 (role rule) | **PASS** | params_v3 |
@@ -60,6 +60,6 @@ Tail variant: 20 mm (A-071 open)
 | 56 | STL watertight: plug | True | True | **PASS** | trimesh |
 | 57 | Max bridge/overhang span, print orientation: plug | 0.0 mm (0 faces) | <= 10 mm reach from bed contact (P1S bridges; no steep overhangs) | **PASS** | trimesh, faces with normal z < -0.7 above the bed, reach to bed-contact vertices |
 | 58 | Model heights equal their cited source (7 parts) | 7 of 7 equal | model value = cited value for every part | **OPEN** | params_v3 H_CITED vs H_BY_REF; standards s.7 (never invent a component dimension) (OPEN: U5, U6, SW1-3 cite distributor listings (SECONDARY), the PDFs were not read) |
-| 59 | J1 USB-C height, flat vs upright | flat 3.30 (ASSUMED): 2.70 mm to lid; upright 11.94 +-0.25 (OPEN): -5.94 mm | >= 0.5 (orientation not decided) | **OPEN** | TYPE-C-31-M-12 datasheet, upright male (brief value, PDF not read here); params_v3 H_SRC J1_UPRIGHT (OPEN: A-087 approved flat (2026-11-13); the upright value is kept only as a record and does not fit the 8.6 mm or 7.6 mm inner box) |
+| 59 | J1 USB-C height (flat / edge-mount, A-087) | flat 3.30 (ASSUMED): 2.70 mm to lid underside (inner 8.6) | >= 0.5 mm to lid; height from the datasheet of the picked part | **OPEN** | params_v3 H_BY_REF['J1'], H_SRC J1; A-087 (flat approved 2026-11-13) (OPEN: height ASSUMED until Emil's flat part has a datasheet height (PR #95 does not pick it yet); never PASS before that) |
 
 40 PASS, 0 FAIL, 19 OPEN (tail 20 mm variant)

diff --git a/projects/plant-monitor/enclosure/v3/README.md b/projects/plant-monitor/enclosure/v3/README.md
@@ -90,12 +90,12 @@ Run from `projects/plant-monitor/mechanical/enclosure_v3/` (Python 3.11, `pip in
 
 Stacked on slice 2 (sections above unchanged; their height values are superseded by section 9 where they differ). Nothing printed, ordered or uploaded.
 
-**Tail length (A-071, Arsany decides, NOT decided here).** Read as the **soil electrode copper beyond the outer bottom face** of the enclosure (the number used in section 1b item 7). Today 13.2 mm of the 20 mm copper is outside (copper tip y -63.0, outer face y -49.8). The enclosure does not move between variants, so the printed housing is identical (same STL vertices and volumes as slice 2, checked). Only the **board tail** changes:
+**Tail length (A-071, DECIDED: 14 mm, Arsany 2026-11-12; sheet Done).** Read as the **soil electrode copper beyond the outer bottom face** of the enclosure (the number used in section 1b item 7). Today 13.2 mm of the 20 mm copper is outside (copper tip y -63.0, outer face y -49.8). The enclosure does not move between variants, so the printed housing is identical (same STL vertices and volumes as slice 2, checked). Only the **board tail** changes:
 
 | Variant | Electrode beyond the outer face | Board tail (body edge to tip) | vs the 25.0 mm DXF | Status |
 |---|---|---|---|---|
-| 14 mm | 14.0 | 25.8 | +0.8 | **OPEN**: board outline change for Emil |
-| 20 mm | 20.0 | 31.8 | +6.8 | **OPEN**: board outline change for Emil (the "+6" of the PR) |
+| 14 mm | 14.0 | 25.8 | +0.8 | **APPROVED** (A-071). `pcb/gen_pcb.py` on main has 25.8; the DXF copy in `mechanical/enclosure_v3/input/` is still 25.0, so the fit row stays OPEN until `input/` is refreshed |
+| 20 mm | 20.0 | 31.8 | +6.8 | reference only (not chosen) |
 
 Derivation: copper tip = outer face - electrode length; tail tip = copper tip - 4.0 (bare tip, DXF). Code: `params_v3.TAIL_VARIANTS`, `tail_len_for()`, `board_facts.electrode_span()`.
 
@@ -108,7 +108,7 @@ Derivation: copper tip = outer face - electrode length; tail tip = copper tip - 
 | U6 | BH1750FVI-TR (C78960) | 0.75 | Arrow and RS Online: max 0.75 (Future 0.7) | SECONDARY (PDF not read) |
 | SW1-3 | TS-1187A-B-A-B (C318884) | 1.5 | JLCPCB, LCSC, HQ Online: 1.5 | SECONDARY (XKB PDF not read) |
 | J2 | S2B-PH-SM4-TB (C295747) | **5.5** (slice 4 model, was 4.5) | sourced: LCSC C295747 Z-height listing 5.5 (A-076, answered 2026-11-13); IBS Electronics 5.5; element14 8.0 for a likely B2B variant (not confirmed as this part); JST drawing to confirm | **SECONDARY, OPEN** (fit rows 12, 14, 15: 0.5 mm air at INNER_H 8.6; the exact part and drawing are still to confirm) |
-| J1 | TYPE-C-31-M-12 (C165948) | 3.3 flat | flat: none (LCSC datasheet link gives a wrapper page). Upright male: **11.94 +-0.25** (datasheet brief value, PDF not read here) | flat ASSUMED; upright **OPEN, A-087** (orientation, Arsany; no value chosen; fit row 55) |
+| J1 | TYPE-C-31-M-12 (C165948) | 3.3 flat | flat: none read (LCSC datasheet link gives a wrapper page). Upright male: 11.94 +-0.25 (brief value, PDF not read), **rejected** | flat / edge-mount approved (A-087, Arsany 2026-11-13); height **ASSUMED, never PASS** until the datasheet height of the part Emil picks is read (PR #95 does not contain it yet). Fit row 'J1 USB-C height' OPEN. J1 is not the height driver: J2 sets the 8.6 mm inner height, J1 leaves 2.7 mm air |
 | U3 | TP4056 ESOP-8 (C16581) | 1.75 | none (LCSC datasheet link gives a wrapper page) | ASSUMED |
 | others | D1, U2, U4, U7, Q1, D2, D3, R/C | 0.55-1.1 | not read | ASSUMED |
 

diff --git a/showcase/items/2026-11-14_4.E3-s5/caption.md b/showcase/items/2026-11-14_4.E3-s5/caption.md
@@ -1,0 +1,9 @@
+# 4.E3 slice 5: status sync after A-087 (USB-C flat), A-071 (14 mm tail), A-084 (RF risk accepted)
+
+**What it shows:** the compact enclosure from the parametric CadQuery model in side profile, the tail drawn as the soil stake at the approved 14 mm length (re-rendered; the earlier picture said "open decision"). The model itself did not change: same outer size 97.3 x 56.9 x 12.2 mm, same STL. What changed is the honesty of the paperwork around it. The USB-C connector (J1) is flat / edge-mount (Arsany, 2026-11-13); its height 3.3 mm is still an assumption and the check row stays OPEN until a datasheet height of the part Emil picks exists. The rejected upright version (11.94 mm) no longer appears as an open question.
+
+- Task: 4.E3 slice 5 (branch `agent/mechanical/4.E3-s5`) · PR: see the PR list (branch name above) · Persona: Yara (3D Product Designer)
+- Checks run locally (GitHub Actions is waived until billing is fixed, A-090, so CI was not run): `pytest -q` in `projects/plant-monitor/mechanical` 56 passed; fit check 40 PASS / 0 FAIL / 19 OPEN for both tail variants, same counts as before.
+- Cavity basis: J2 (5.5 mm, a distributor listing) sets the 8.6 mm inner height; J1 flat leaves 2.7 mm of air. The 7.6 mm figure is the old J2 4.5 assumption, kept as reference.
+- Agent minutes: see the Agent Log (about 25 min run clock) · Agent's own human-hour estimate: 3 h
+- Unverified: J1 height (assumed, part not yet picked); J2 height (listing, drawing not read); RF effect of the 1.6 mm PETG wall (risk accepted for the demo, not measured); the board copy in `input/` still has the 25.0 mm tail; no slice, print, seal or splash test; the render is a rasterised view of the model, not a photo of a print.
